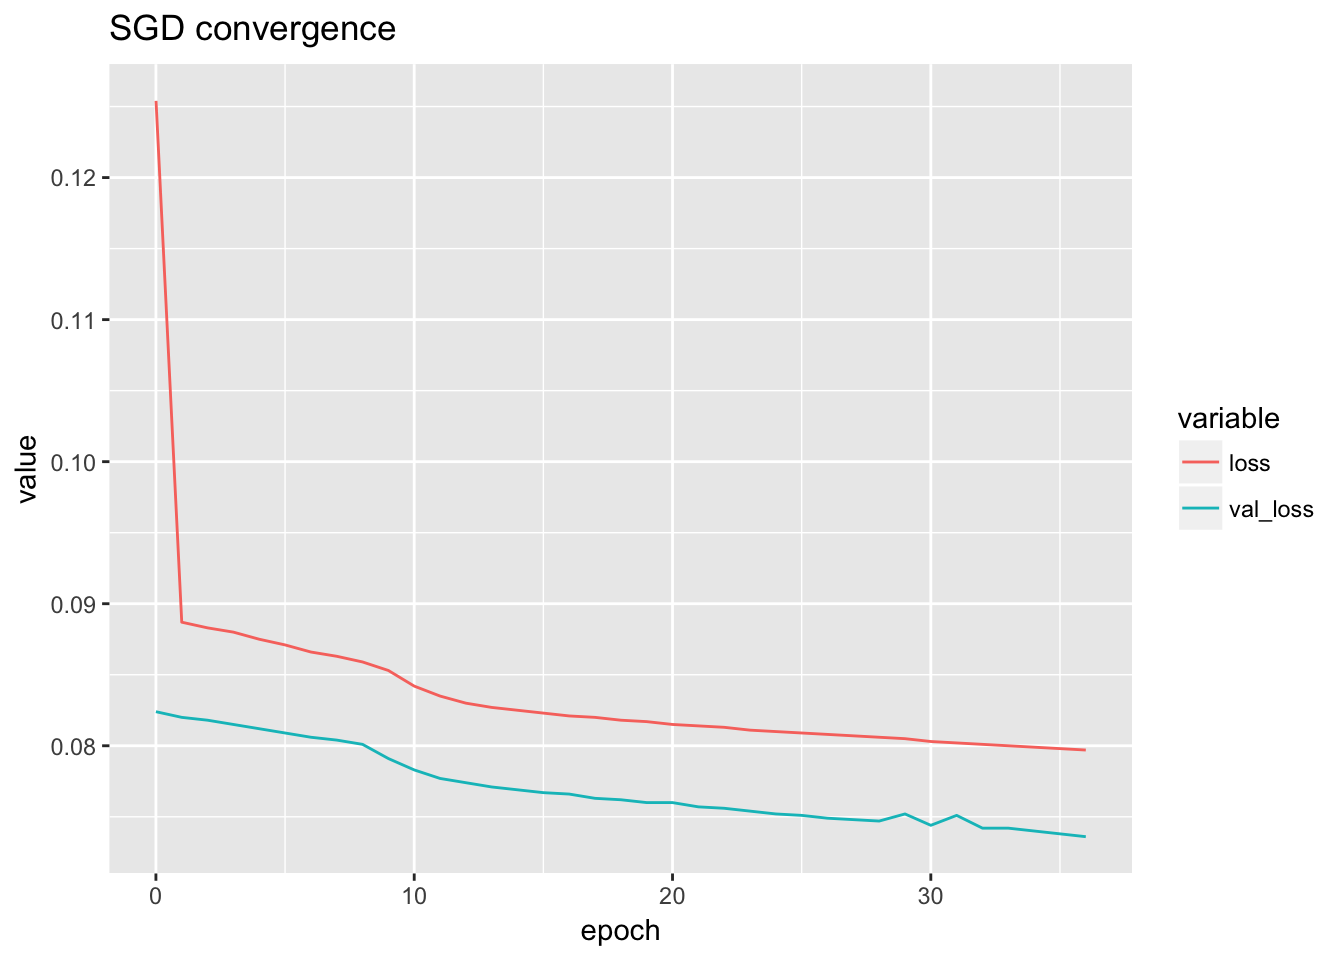
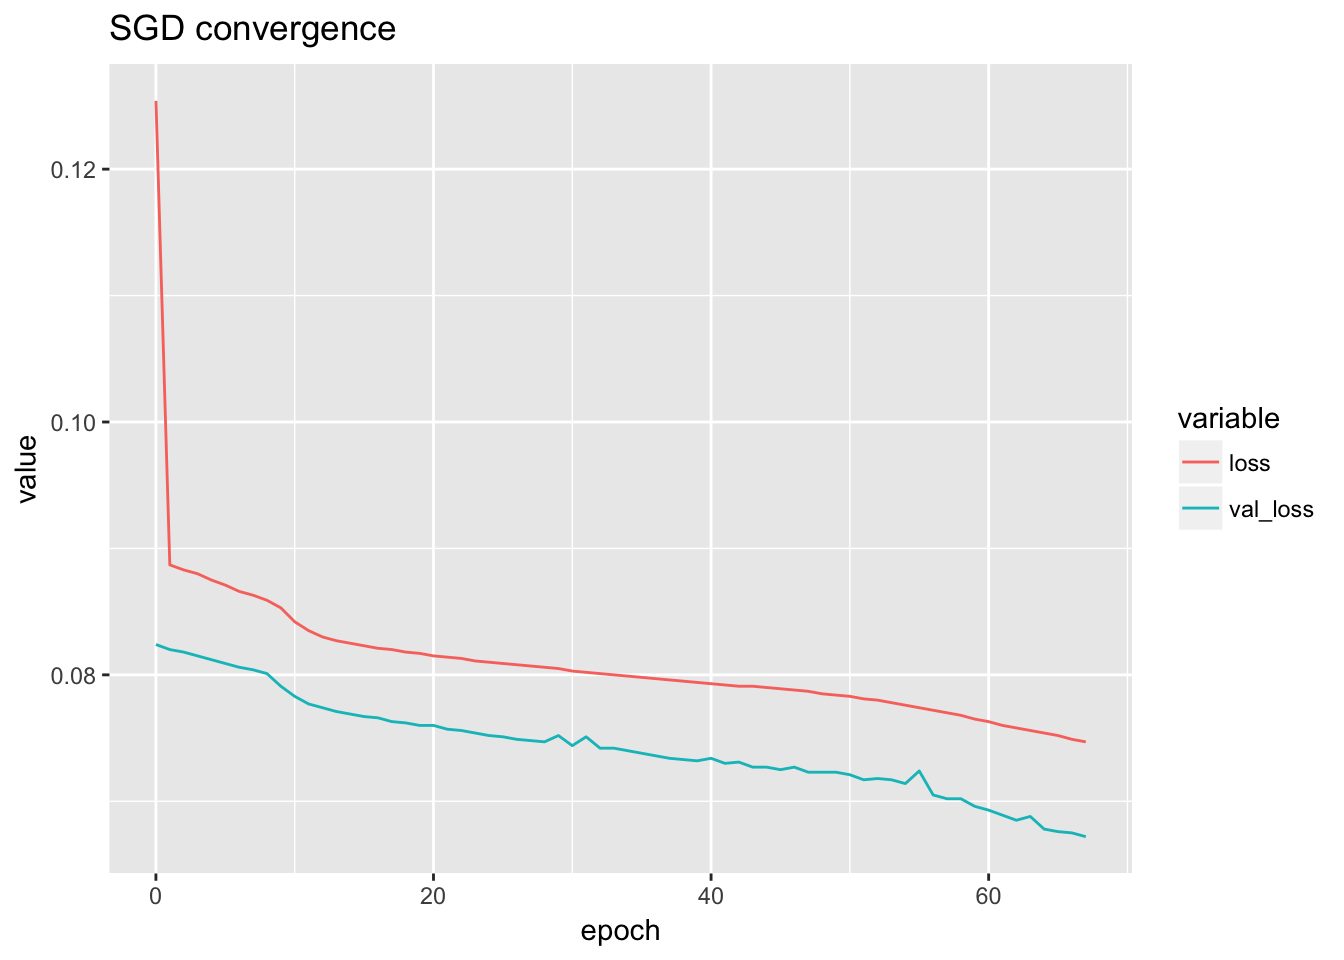
updated

diff --git a/docs/type2.html b/docs/type2.html
@@ -303,7 +303,7 @@ div.tocify {
 
 <h1 class="title toc-ignore">Deep brain - Training - Type 2</h1>
 <h4 class="author"><em>Yanyu Liang</em></h4>
-<h4 class="date"><em>19 April, 2017</em></h4>
+<h4 class="date"><em>28 April, 2017</em></h4>
 
 </div>
 
@@ -335,21 +335,22 @@ pre code, pre, code {
 library(ggplot2)
 library(reshape2)
 rmsprop &lt;- read.table(&#39;../data/type2_040617_00_04_09_17.csv&#39;, sep = &#39;,&#39;, header = T)
-sdg &lt;- read.table(&#39;../data/type2_040717_00_04_09_15_19_25_30_36.csv&#39;, sep = &#39;,&#39;, header = T)
+sdg &lt;- read.table(&#39;../data/type2_040717_00_09_19_30_36_41_46_51_56_61_65.csv&#39;, sep = &#39;,&#39;, header = T)
+# filter extra epoch
+sdg &lt;- sdg[!(sdg$data == &#39;all&#39; &amp; sdg$epoch &gt; max(sdg[sdg$data != &#39;all&#39;, &#39;epoch&#39;])),]
+# end
 deepsea &lt;- read.table(&#39;../data/aucs.txt&#39;, sep = &#39;\t&#39;, header = T)
-deepsea$DeepSEA.ROC.AUC &lt;- as.numeric(as.character(deepsea$DeepSEA.ROC.AUC))</code></pre>
-<pre><code>## Warning: NAs introduced by coercion</code></pre>
-<pre class="r"><code>deepsea$DeepSEA.PR.AUC &lt;- as.numeric(as.character(deepsea$DeepSEA.PR.AUC))</code></pre>
-<pre><code>## Warning: NAs introduced by coercion</code></pre>
+deepsea$DeepSEA.ROC.AUC &lt;- as.numeric(as.character(deepsea$DeepSEA.ROC.AUC))
+deepsea$DeepSEA.PR.AUC &lt;- as.numeric(as.character(deepsea$DeepSEA.PR.AUC))</code></pre>
 </div>
 <div id="training" class="section level2">
 <h2><span class="header-section-number">3.2</span> Training</h2>
 <pre class="r"><code>rmsprop.loss &lt;- rmsprop[rmsprop$data == &#39;all&#39;, ]
 ggplot(rmsprop.loss) + geom_line(aes(x = epoch, y = value, color = variable)) + ggtitle(&#39;RMSprop convergence&#39;)</code></pre>
-<p><img src="type2_files/figure-html/unnamed-chunk-2-1.png" width="672" /></p>
+<p><img src="type2_files/figure-html/unnamed-chunk-139-1.png" width="672" /></p>
 <pre class="r"><code>sdg.loss &lt;- sdg[sdg$data == &#39;all&#39;, ]
 ggplot(sdg.loss) + geom_line(aes(x = epoch, y = value, color = variable)) + ggtitle(&#39;SGD convergence&#39;)</code></pre>
-<p><img src="type2_files/figure-html/unnamed-chunk-2-2.png" width="672" /></p>
+<p><img src="type2_files/figure-html/unnamed-chunk-139-2.png" width="672" /></p>
 </div>
 <div id="performance" class="section level2">
 <h2><span class="header-section-number">3.3</span> Performance</h2>
@@ -366,7 +367,7 @@ bestmodel.rms &lt;- select_best(rmsprop.loss, rmsprop)</code></pre>
 ## 23 0  all     0 0.0699 val_loss</code></pre>
 <pre class="r"><code>bestmodel.sgd &lt;- select_best(sdg.loss, sdg)</code></pre>
 <pre><code>##    X data epoch  value variable
-## 27 0  all    36 0.0736 val_loss</code></pre>
+## 45 0  all    65 0.0676 val_loss</code></pre>
 <pre class="r"><code>anno_to_type &lt;- function(anno){
     dnase.ind &lt;- anno == &#39;DNase&#39;
     histone.ind &lt;- grepl(&#39;^H[0-9]&#39;, anno)
@@ -404,12 +405,10 @@ deepsea.aucs$source &lt;- &#39;deepsea&#39;</code></pre>
                    deepsea.aucs[, c(&#39;variable&#39;, &#39;value&#39;, &#39;Annotation.Type&#39;, &#39;source&#39;)])
 ggplot(auc_table[auc_table$variable == &#39;roc_auc&#39;,]) + geom_histogram(aes(x = value, fill = source)) + facet_grid(Annotation.Type~., scale = &#39;free_y&#39;) + ggtitle(&#39;ROC AUC&#39;)</code></pre>
 <pre><code>## `stat_bin()` using `bins = 30`. Pick better value with `binwidth`.</code></pre>
-<pre><code>## Warning: Removed 1 rows containing non-finite values (stat_bin).</code></pre>
-<p><img src="type2_files/figure-html/unnamed-chunk-5-1.png" width="672" /></p>
+<p><img src="type2_files/figure-html/unnamed-chunk-142-1.png" width="672" /></p>
 <pre class="r"><code>ggplot(auc_table[auc_table$variable == &#39;pr_auc&#39;,]) + geom_histogram(aes(x = value, fill = source)) + facet_grid(Annotation.Type~., scales = &#39;free_y&#39;) + ggtitle(&#39;PR AUC&#39;)</code></pre>
 <pre><code>## `stat_bin()` using `bins = 30`. Pick better value with `binwidth`.</code></pre>
-<pre><code>## Warning: Removed 1 rows containing non-finite values (stat_bin).</code></pre>
-<p><img src="type2_files/figure-html/unnamed-chunk-5-2.png" width="672" /></p>
+<p><img src="type2_files/figure-html/unnamed-chunk-142-2.png" width="672" /></p>
 </div>
 <div id="compare-with-type1-best-model" class="section level3">
 <h3><span class="header-section-number">3.3.2</span> Compare with type1 (best model)</h3>
@@ -426,8 +425,7 @@ temp.melted &lt;- melt(temp, id.vars = c(&#39;source&#39;, &#39;Cell.Type&#39;))
 temp.melted[which(temp.melted$value == -1), ]$value &lt;- NA
 temp.melted$variable &lt;- factor(temp.melted$variable, levels = c(&#39;cross_entropy&#39;, &#39;accuracy&#39;, &#39;roc_auc&#39;, &#39;pr_auc&#39;, levels(temp.melted$variable)[4 : 9]))
 ggplot(temp.melted) + geom_bar(aes(x = variable, y = value, fill = source), position = &#39;dodge&#39;, stat = &#39;identity&#39;) + facet_wrap(~Cell.Type) + theme(axis.text.x = element_text(angle = 30, hjust = 1)) + ggtitle(&#39;Performance of best models on four selected data sets&#39;)</code></pre>
-<pre><code>## Warning: Removed 8 rows containing missing values (geom_bar).</code></pre>
-<p><img src="type2_files/figure-html/unnamed-chunk-6-1.png" width="672" /></p>
+<p><img src="type2_files/figure-html/unnamed-chunk-143-1.png" width="672" /></p>
 <p><strong>Issues in training</strong>: Some instances have very large activation at the feature representation layer. See analysis <a href="#activation">below</a>.</p>
 <p><strong>TODO</strong>: Add penalty terms and use sgd with momentum. See technical memo <a href="memo_constraint.html">here</a></p>
 <p><strong>TODO</strong>: Use weighted hinge loss.</p>
@@ -452,21 +450,17 @@ ggplot(temp.melted) + geom_bar(aes(x = variable, y = value, fill = source), posi
 re &lt;- performance_cross_epoch(sdg, deepsea.aucs, &#39;SGD&#39;)
 re$roc</code></pre>
 <pre><code>## `stat_bin()` using `bins = 30`. Pick better value with `binwidth`.</code></pre>
-<pre><code>## Warning: Removed 1 rows containing non-finite values (stat_bin).</code></pre>
-<p><img src="type2_files/figure-html/unnamed-chunk-7-1.png" width="672" /></p>
+<p><img src="type2_files/figure-html/unnamed-chunk-144-1.png" width="672" /></p>
 <pre class="r"><code>re$pr</code></pre>
 <pre><code>## `stat_bin()` using `bins = 30`. Pick better value with `binwidth`.</code></pre>
-<pre><code>## Warning: Removed 1 rows containing non-finite values (stat_bin).</code></pre>
-<p><img src="type2_files/figure-html/unnamed-chunk-7-2.png" width="672" /></p>
+<p><img src="type2_files/figure-html/unnamed-chunk-144-2.png" width="672" /></p>
 <pre class="r"><code>re &lt;- performance_cross_epoch(rmsprop, deepsea.aucs, &#39;RMSprop&#39;)
 re$roc</code></pre>
 <pre><code>## `stat_bin()` using `bins = 30`. Pick better value with `binwidth`.</code></pre>
-<pre><code>## Warning: Removed 1 rows containing non-finite values (stat_bin).</code></pre>
-<p><img src="type2_files/figure-html/unnamed-chunk-7-3.png" width="672" /></p>
+<p><img src="type2_files/figure-html/unnamed-chunk-144-3.png" width="672" /></p>
 <pre class="r"><code>re$pr</code></pre>
 <pre><code>## `stat_bin()` using `bins = 30`. Pick better value with `binwidth`.</code></pre>
-<pre><code>## Warning: Removed 1 rows containing non-finite values (stat_bin).</code></pre>
-<p><img src="type2_files/figure-html/unnamed-chunk-7-4.png" width="672" /></p>
+<p><img src="type2_files/figure-html/unnamed-chunk-144-4.png" width="672" /></p>
 </div>
 </div>
 <div id="kernel-norm" class="section level3">
